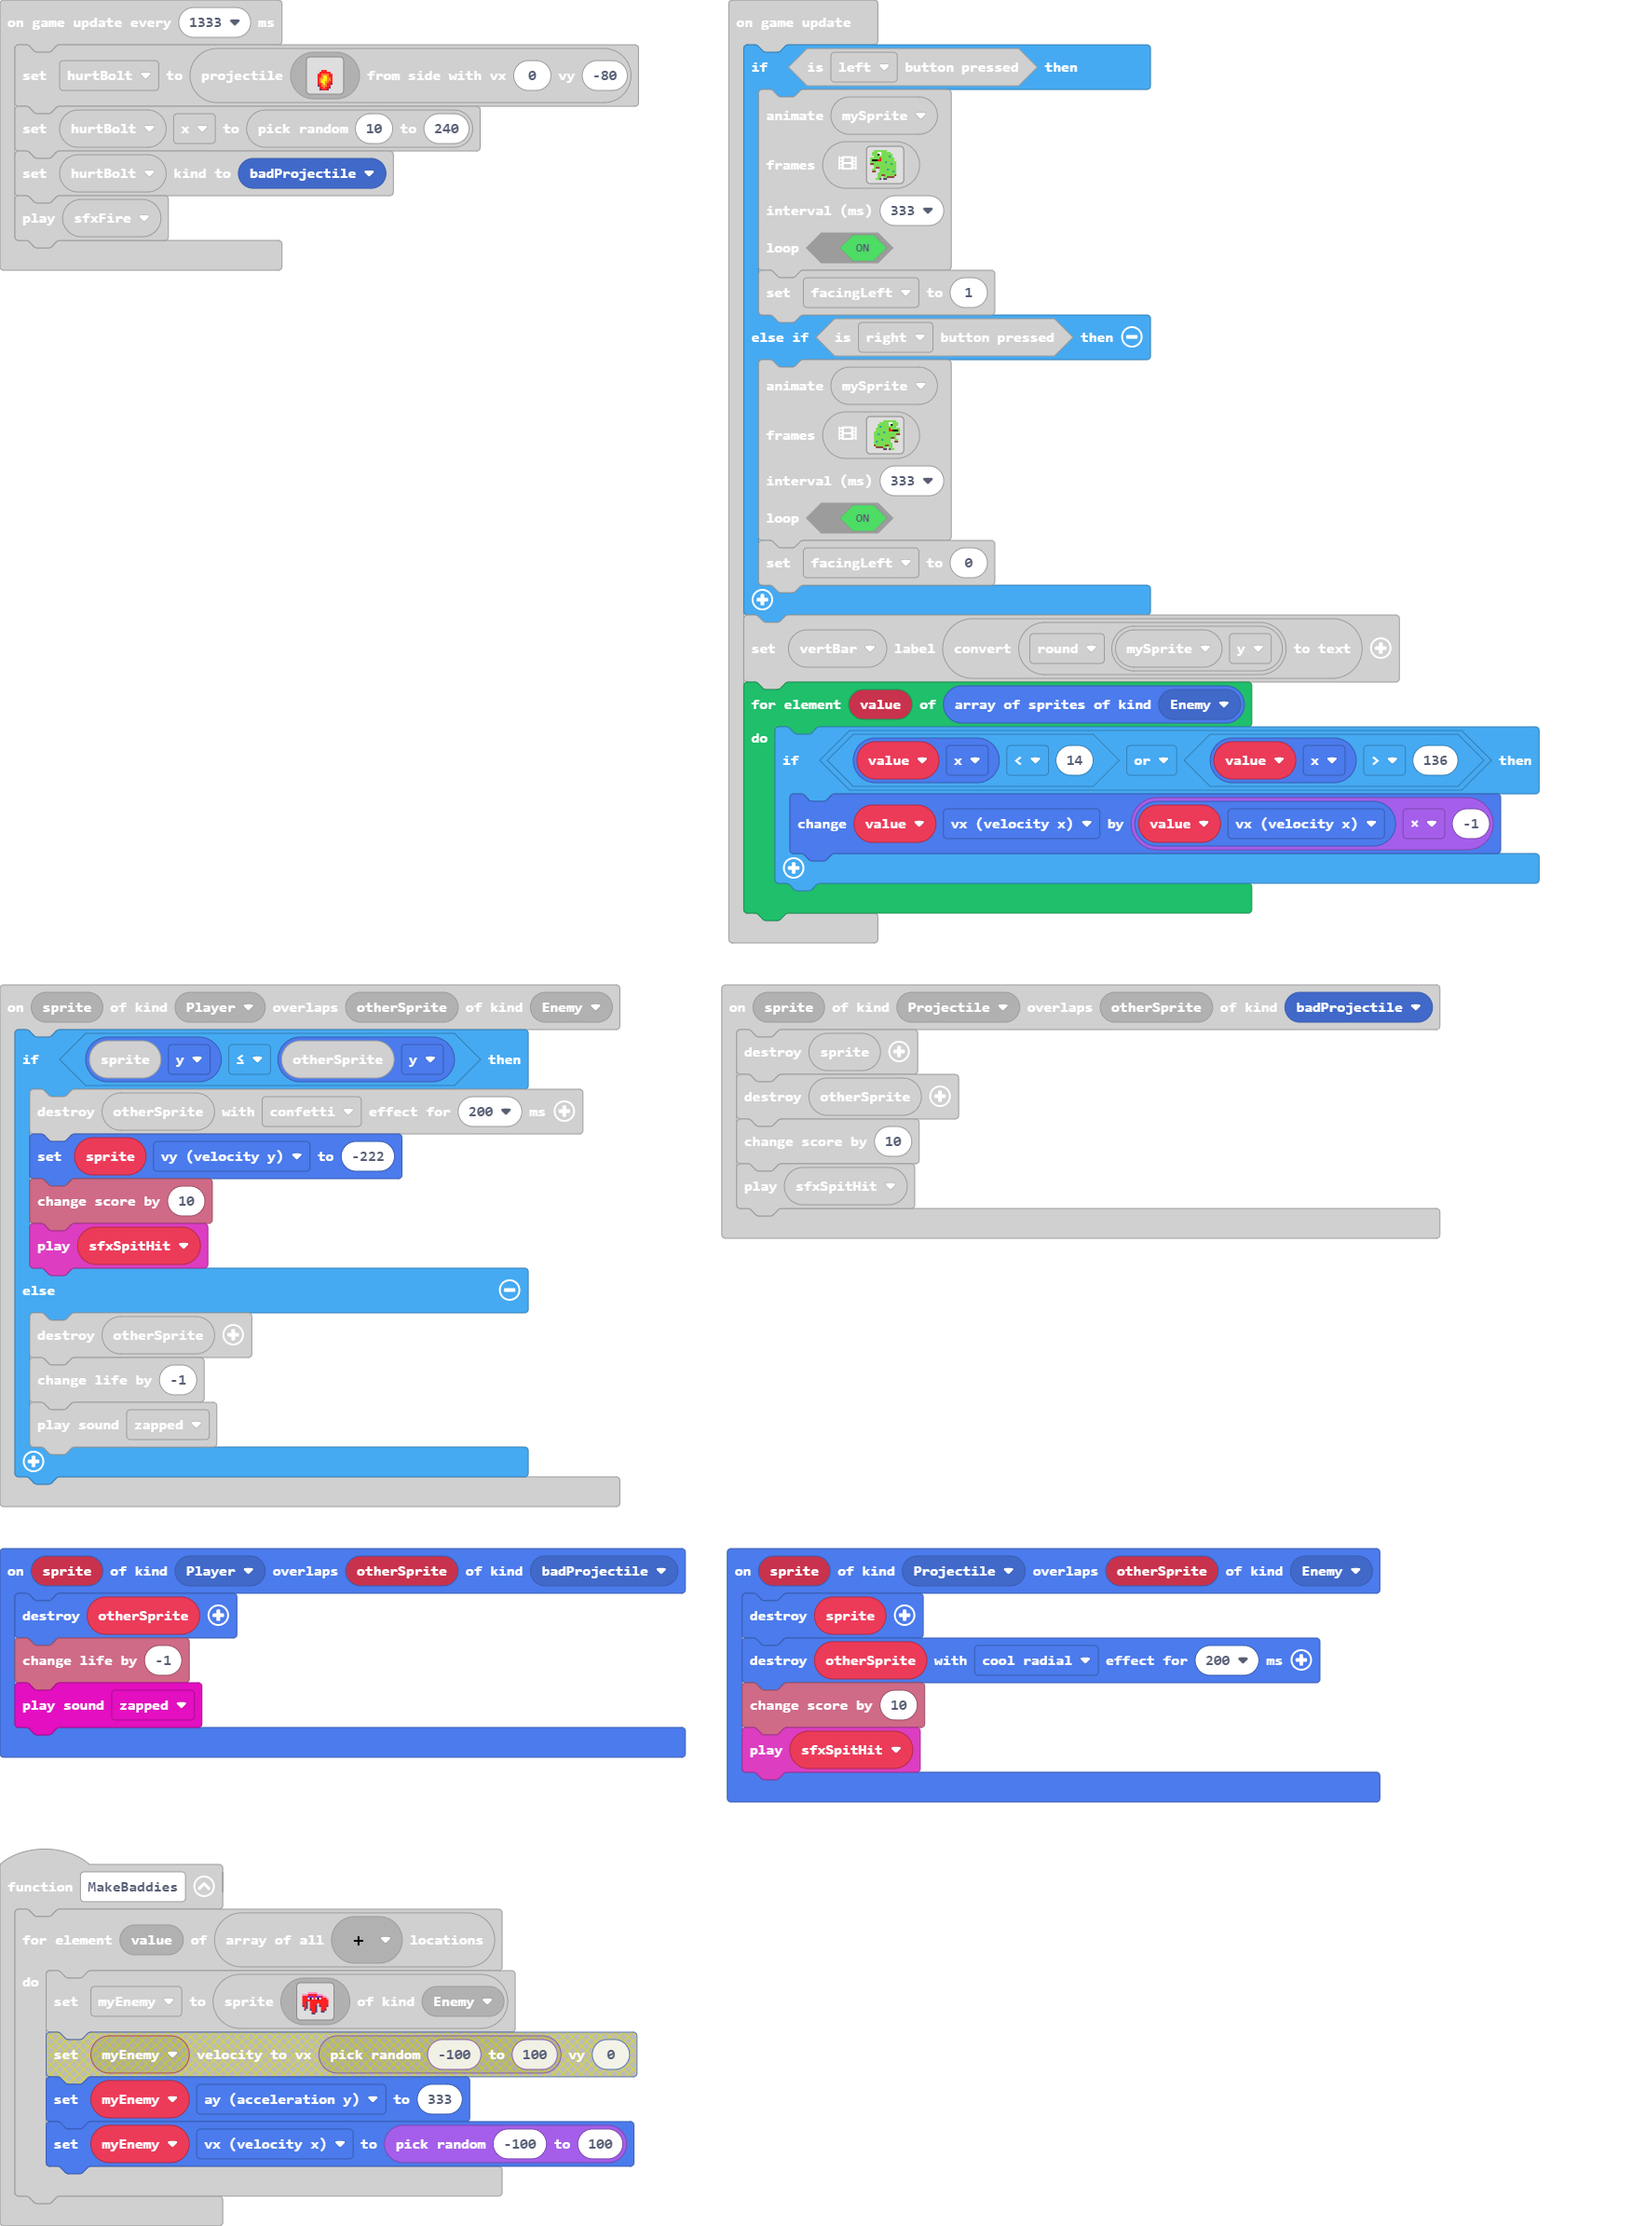
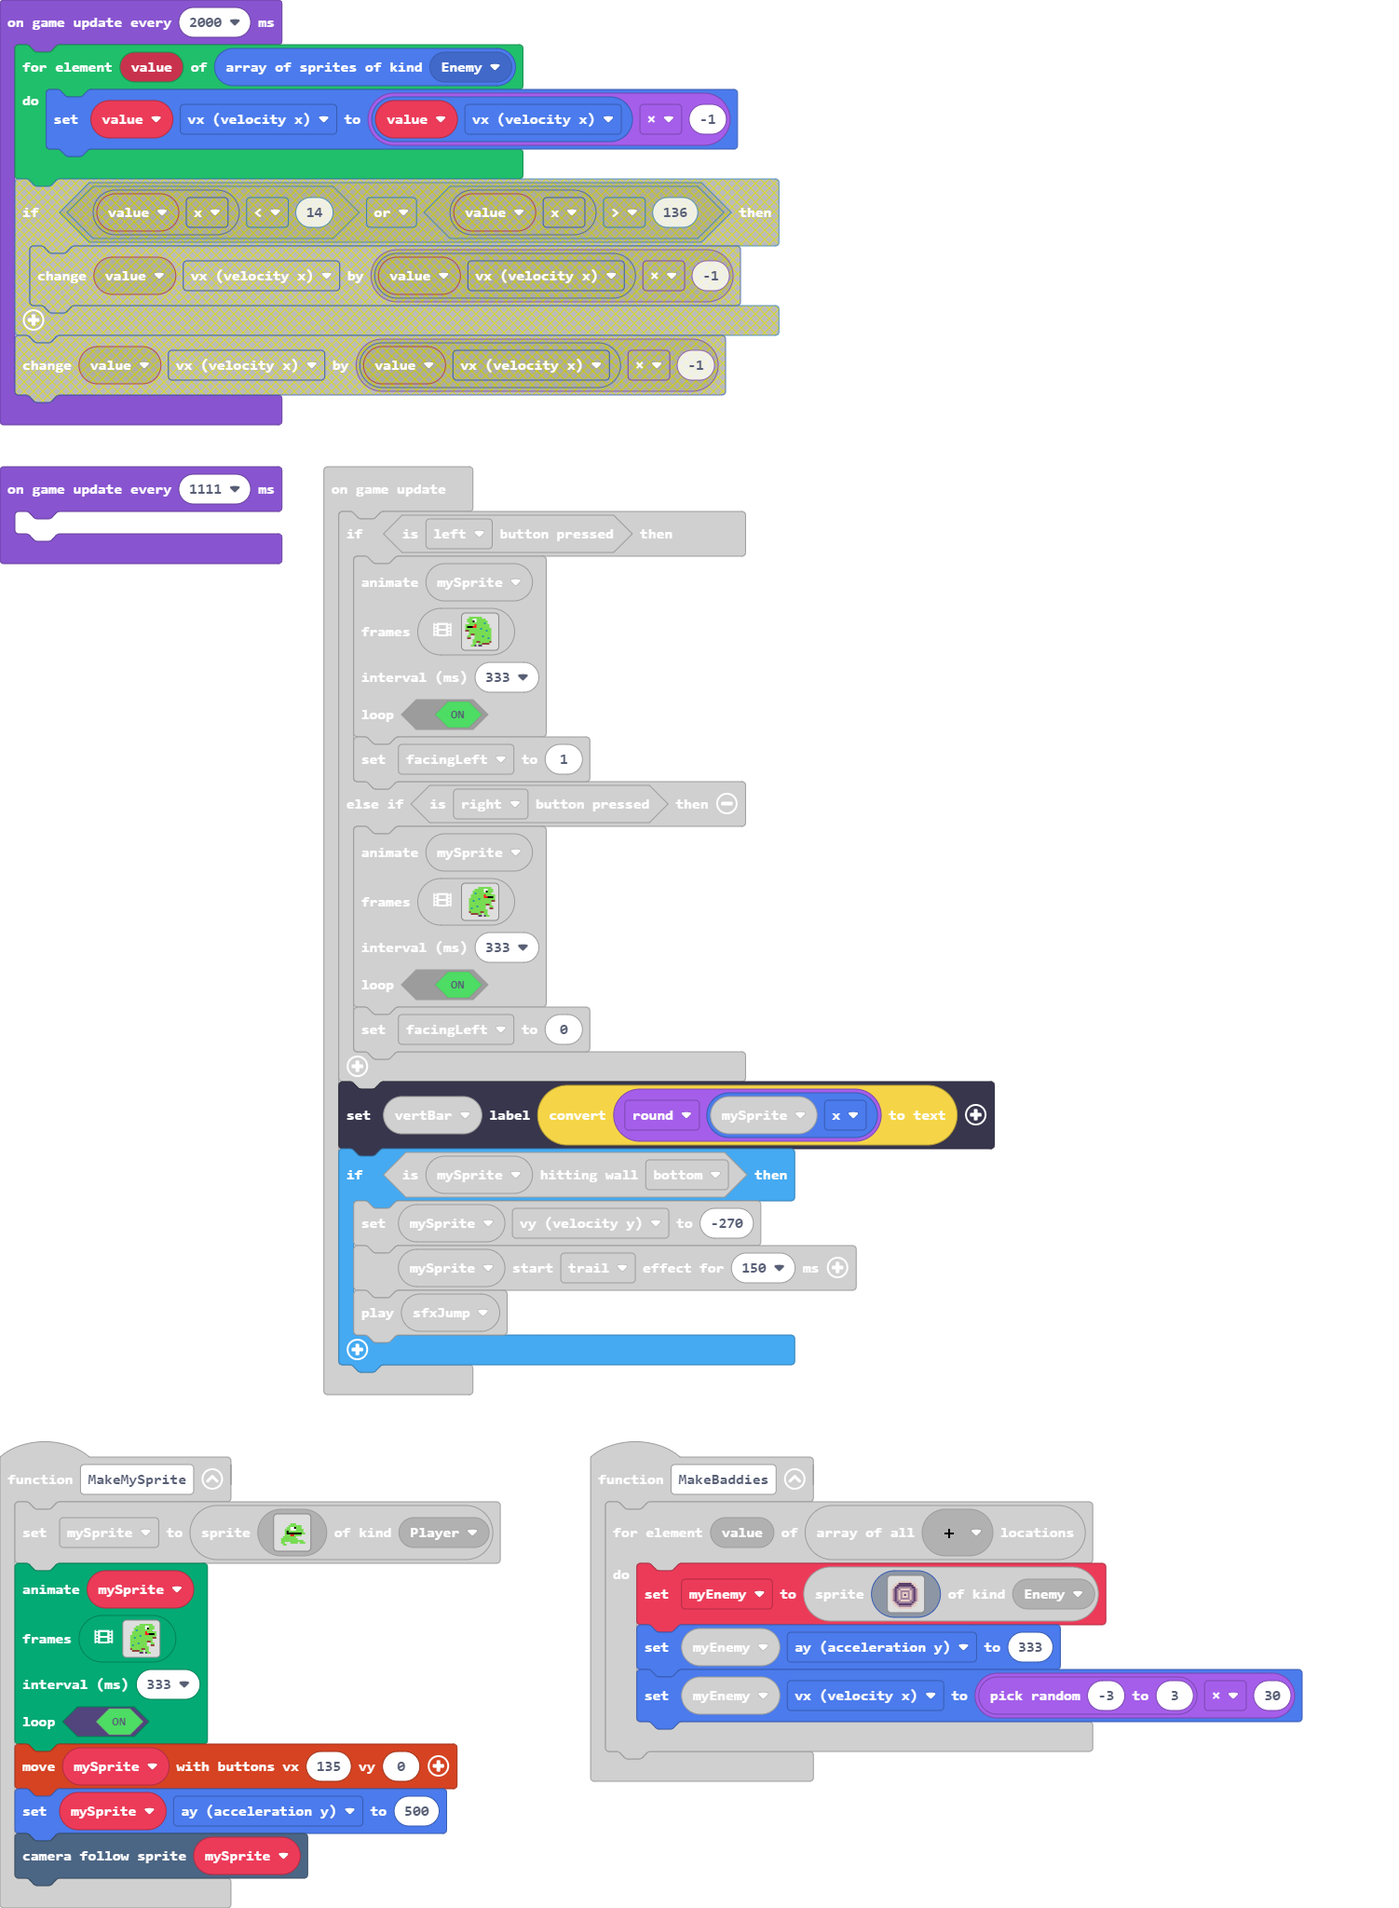
still messing with the enemies

diff --git a/tilemap.g.ts b/tilemap.g.ts
@@ -32,8 +32,27 @@ namespace myTiles {
 . . . . . . . . . . . . . . . . 
 . . . . . . . . . . . . . . . . 
 `, [myTiles.transparency16], TileScale.Sixteen);
+            case "level3":
+            case "level3":return tiles.createTilemap(hex`1000100000000000000000000000000000000000000000000000000000000000000000000000000000000000000000000000000000000000000000000000000000000000000000000000000000000000000000000300000000000000000000000000000300000000000000000000000000000000000000000000000000000000000000000000000000000000000000000000000000000000000000000000000000000000000000000000000000000000000000000000000000000000000000000000000000000000000000000000000000000000000000000000000000000000000000000000000000000000000000020000000001010101010101010101010101010101`, img`
+. . . . . . . . . . . . . . . . 
+. . . . . . . . . . . . . . . . 
+. . . . . . . . . . . . . . . . 
+. . . . . . . . . . . . . . . . 
+. . . . . . . . . . . . . . . . 
+. . . . . . . . . . . . . . . . 
+. . . . . . . . . . . . . . . . 
+. . . . . . . . . . . . . . . . 
+. . . . . . . . . . . . . . . . 
+. . . . . . . . . . . . . . . . 
+. . . . . . . . . . . . . . . . 
+. . . . . . . . . . . . . . . . 
+. . . . . . . . . . . . . . . . 
+. . . . . . . . . . . . . . . . 
+. . . . . . . . . . . . . . . . 
+2 2 2 2 2 2 2 2 2 2 2 2 2 2 2 2 
+`, [myTiles.transparency16,sprites.castle.tileGrass2,myTiles.tile1,myTiles.tile4], TileScale.Sixteen);
             case "level2":
[2 lines of base64/hex data omitted]
 ................
 ................
 ......222.......

diff --git a/main.ts b/main.ts
@@ -59,11 +59,7 @@ function MakePlatzBar () {
     platzBar.setOffsetPadding(0, 8)
 }
 controller.A.onEvent(ControllerButtonEvent.Pressed, function () {
-    if (mySprite.isHittingTile(CollisionDirection.Bottom)) {
-        mySprite.vy = -270
-        mySprite.startEffect(effects.trail, 150)
-        sfxJump.play()
-    }
+	
 })
 sprites.onOverlap(SpriteKind.Projectile, SpriteKind.badProjectile, function (sprite, otherSprite) {
     sprite.destroy()
@@ -105,6 +101,80 @@ function MakeMySprite () {
         . . . 7 7 . . . . . . . . . . . 
         . . . . . . . . . . . . . . . . 
         `, SpriteKind.Player)
+    animation.runImageAnimation(
+    mySprite,
+    [img`
+        . . . . . . . 7 7 7 7 7 7 7 . . 
+        . . . . . 7 7 7 7 7 1 1 7 7 7 . 
+        . . . . 7 7 7 7 7 7 1 f 7 7 7 . 
+        . . . . 7 6 7 7 7 7 7 7 7 7 . . 
+        . . . 7 7 7 7 7 7 7 2 7 7 7 7 7 
+        . . . 7 7 7 7 7 7 7 2 2 f f f 7 
+        . . 7 7 7 7 7 6 7 7 7 7 7 7 7 7 
+        . . 7 7 6 7 7 7 7 7 7 7 7 7 e e 
+        . . 7 7 7 7 7 7 7 7 7 7 7 7 . . 
+        . . 7 7 7 7 7 7 7 7 7 e e 7 . . 
+        . . 7 7 7 7 6 7 7 7 7 . . 7 7 . 
+        . . 7 6 7 7 7 7 7 7 7 . . e e . 
+        . . 7 7 7 7 7 7 7 7 7 7 . . . . 
+        . . e 7 7 7 7 7 e e 7 7 . . . . 
+        . . . e e e e 7 7 . 7 7 . . . . 
+        . . . . . . . c c . c 7 7 . . . 
+        `,img`
+        . . . . . . . 7 7 7 7 7 7 7 . . 
+        . . . . . 7 7 7 7 7 1 f 7 7 7 . 
+        . . . . 7 7 7 7 7 7 1 1 7 7 7 . 
+        . . . . 7 6 7 7 7 7 7 7 7 7 . . 
+        . . . 7 7 7 7 7 7 7 2 7 7 7 7 7 
+        . . . 7 7 7 7 7 7 7 2 2 f f f 7 
+        . . 7 7 7 7 7 6 7 7 7 7 7 7 7 7 
+        . . 7 7 6 7 7 7 7 7 7 7 7 7 e e 
+        . . 7 7 7 7 7 7 7 7 7 7 7 7 . . 
+        . . 7 7 7 7 7 7 7 7 7 e e 7 . . 
+        . . 7 7 7 7 6 7 7 7 7 . . 7 7 . 
+        . . 7 6 7 7 7 7 7 7 7 . . e e . 
+        . . 7 7 7 7 7 7 7 7 7 7 . . . . 
+        . . e 7 7 7 7 7 e e 7 7 . . . . 
+        . . . e e e e 7 7 . 7 7 . . . . 
+        . . . . . . . c c . c 7 7 . . . 
+        `,img`
+        . . . . . . . 7 7 7 7 7 7 7 . . 
+        . . . . . 7 7 7 7 7 1 f 7 7 7 . 
+        . . . . 7 7 7 7 7 7 1 1 7 7 7 . 
+        . . . . 7 6 7 7 7 7 7 7 7 7 . . 
+        . . . 7 7 7 7 7 7 7 2 7 7 7 7 7 
+        . . . 7 7 7 7 7 7 7 2 2 f f f 7 
+        . . 7 7 7 7 7 6 7 7 7 7 7 7 7 7 
+        . . 7 7 6 7 7 7 7 7 7 7 7 7 e e 
+        . . 7 7 7 7 7 7 7 7 7 7 7 7 . . 
+        . . 7 7 7 7 7 7 7 7 7 e e 7 . . 
+        . . 7 7 7 7 6 7 7 7 7 . . 7 7 . 
+        . . 7 6 7 7 7 7 7 7 7 . . e e . 
+        . . 7 7 7 7 7 7 7 7 7 7 . . . . 
+        . . e 7 7 7 7 7 e e 7 7 . . . . 
+        . . . e e e 7 7 . . 7 7 7 . . . 
+        . . . . . c c 7 7 . c c c . . . 
+        `,img`
+        . . . . . . . 7 7 7 7 7 7 7 . . 
+        . . . . . 7 7 7 7 7 1 f 7 7 7 . 
+        . . . . 7 7 7 7 7 7 1 1 7 7 7 . 
+        . . . . 7 6 7 7 7 7 7 7 7 7 . . 
+        . . . 7 7 7 7 7 7 7 2 7 7 7 7 7 
+        . . . 7 7 7 7 7 7 7 2 2 f f f 7 
+        . . 7 7 7 7 7 6 7 7 7 7 7 7 7 7 
+        . . 7 7 6 7 7 7 7 7 7 7 7 7 e e 
+        . . 7 7 7 7 7 7 7 7 7 7 7 7 . . 
+        . . 7 7 7 7 7 7 7 7 7 e e 7 . . 
+        . . 7 7 7 7 6 7 7 7 7 . . 7 7 . 
+        . . 7 6 7 7 7 7 7 7 7 . . e e . 
+        . . 7 7 7 7 7 7 7 7 7 7 . . . . 
+        . . e 7 7 7 7 7 e e 7 7 . . . . 
+        . . . e e e 7 7 . . 7 7 7 . . . 
+        . . . . . c c 7 7 . c c c . . . 
+        `],
+    333,
+    true
+    )
     controller.moveSprite(mySprite, 135, 0)
     mySprite.ay = 500
     scene.cameraFollowSprite(mySprite)
@@ -143,24 +213,24 @@ function MakeBaddies () {
     for (let value of tiles.getTilesByType(assets.tile`myTile2`)) {
         myEnemy = sprites.create(img`
             . . . . . . . . . . . . . . . . 
-            . . . . . . . . . . . . . . . . 
-            . . . . . . . . . . . . . . . . 
-            . . . . 3 3 3 3 3 . . . . . . . 
-            . 3 3 3 2 2 2 2 2 3 3 3 . . . . 
-            . 2 2 2 a a a 2 a a a 2 3 3 . . 
-            . 2 2 2 1 f 1 2 1 f 1 2 2 2 3 . 
-            . 2 2 2 2 2 2 2 2 2 2 2 2 2 2 . 
-            . 2 2 c . 2 2 2 2 2 2 2 2 2 2 . 
-            . 2 2 c . 2 2 2 2 . 2 2 2 2 2 . 
-            . c 2 c . 2 2 2 c . c 2 2 2 c . 
-            . . 2 c . 2 2 2 c . . 2 2 2 . . 
-            . . c . . c 2 2 c . . 2 2 c . . 
-            . . . . . . 2 2 c . . c c . . . 
-            . . . . . . c c . . . . . . . . 
-            . . . . . . . . . . . . . . . . 
+            . . . . d d d d d d d . . . . . 
+            . . d d c c c c c c c d d . . . 
+            . d d c c c c c c c c c d d . . 
+            . d c c b b b b b b b c c d . . 
+            d b c b b d d d d d b b c b d . 
+            d b c b d b b b b b d b c b d . 
+            d b c b d b d d d b d b c b d . 
+            d b c b d b d c d b d b c b d . 
+            d b c b d b d d d b d b c b d . 
+            d b c b d b b b b b d b c b d . 
+            d b c b b d d d d d b b c b d . 
+            . d b c b b b b b b b c b d . . 
+            . d d b c c c c c c c b d d . . 
+            . . d d b b b b b b b d d . . . 
+            . . . . d d d d d d d . . . . . 
             `, SpriteKind.Enemy)
-        myEnemy.vx = randint(-100, 100)
         myEnemy.ay = 333
+        myEnemy.vx = randint(-3, 3) * 30
     }
 }
 sprites.onOverlap(SpriteKind.Projectile, SpriteKind.Enemy, function (sprite, otherSprite) {
@@ -194,7 +264,6 @@ let facingLeft = 0
 let platformCount = 0
 let sfxSpitHit: SoundBuffer = null
 let sfxSpit: SoundBuffer = null
-let sfxJump: SoundBuffer = null
 game.showLongText("This is Frob... A is Jump,    B is Spit, Down arrow drops a Plat", DialogLayout.Center)
 let levelNumber = 0
 MakeMySprite()
@@ -202,7 +271,7 @@ MakePlatzBar()
 MakeVertPosBar()
 MakeLevel()
 MakeBaddies()
-sfxJump = soundEffects.createSound(soundEffects.waveNumber(WaveType.Square50), 100, 0, 440)
+let sfxJump = soundEffects.createSound(soundEffects.waveNumber(WaveType.Square50), 100, 0, 440)
 let sfxFire = soundEffects.createSound(soundEffects.waveNumber(WaveType.Triangle), 150, 330, 0)
 sfxSpit = soundEffects.createSound(soundEffects.waveNumber(WaveType.WhiteNoise), 100, 2000, 0)
 sfxSpitHit = soundEffects.createSound(soundEffects.waveNumber(WaveType.TunableNoise), 200, 2500, 440, 255, 0)
@@ -360,11 +429,16 @@ game.onUpdate(function () {
         )
         facingLeft = 0
     }
-    vertBar.setLabel(convertToText(Math.round(mySprite.y)))
+    vertBar.setLabel(convertToText(Math.round(mySprite.x)))
+    if (mySprite.isHittingTile(CollisionDirection.Bottom)) {
+        mySprite.vy = -270
+        mySprite.startEffect(effects.trail, 150)
+        sfxJump.play()
+    }
+})
+game.onUpdateInterval(2000, function () {
     for (let value of sprites.allOfKind(SpriteKind.Enemy)) {
-        if (value.x < 14 || value.x > 136) {
-            value.vx += value.vx * -1
-        }
+        value.vx = value.vx * -1
     }
 })
 game.onUpdateInterval(1333, function () {
@@ -389,4 +463,7 @@ game.onUpdateInterval(1333, function () {
     hurtBolt.x = randint(10, 240)
     hurtBolt.setKind(SpriteKind.badProjectile)
     sfxFire.play()
+})
+game.onUpdateInterval(1111, function () {
+	
 })
